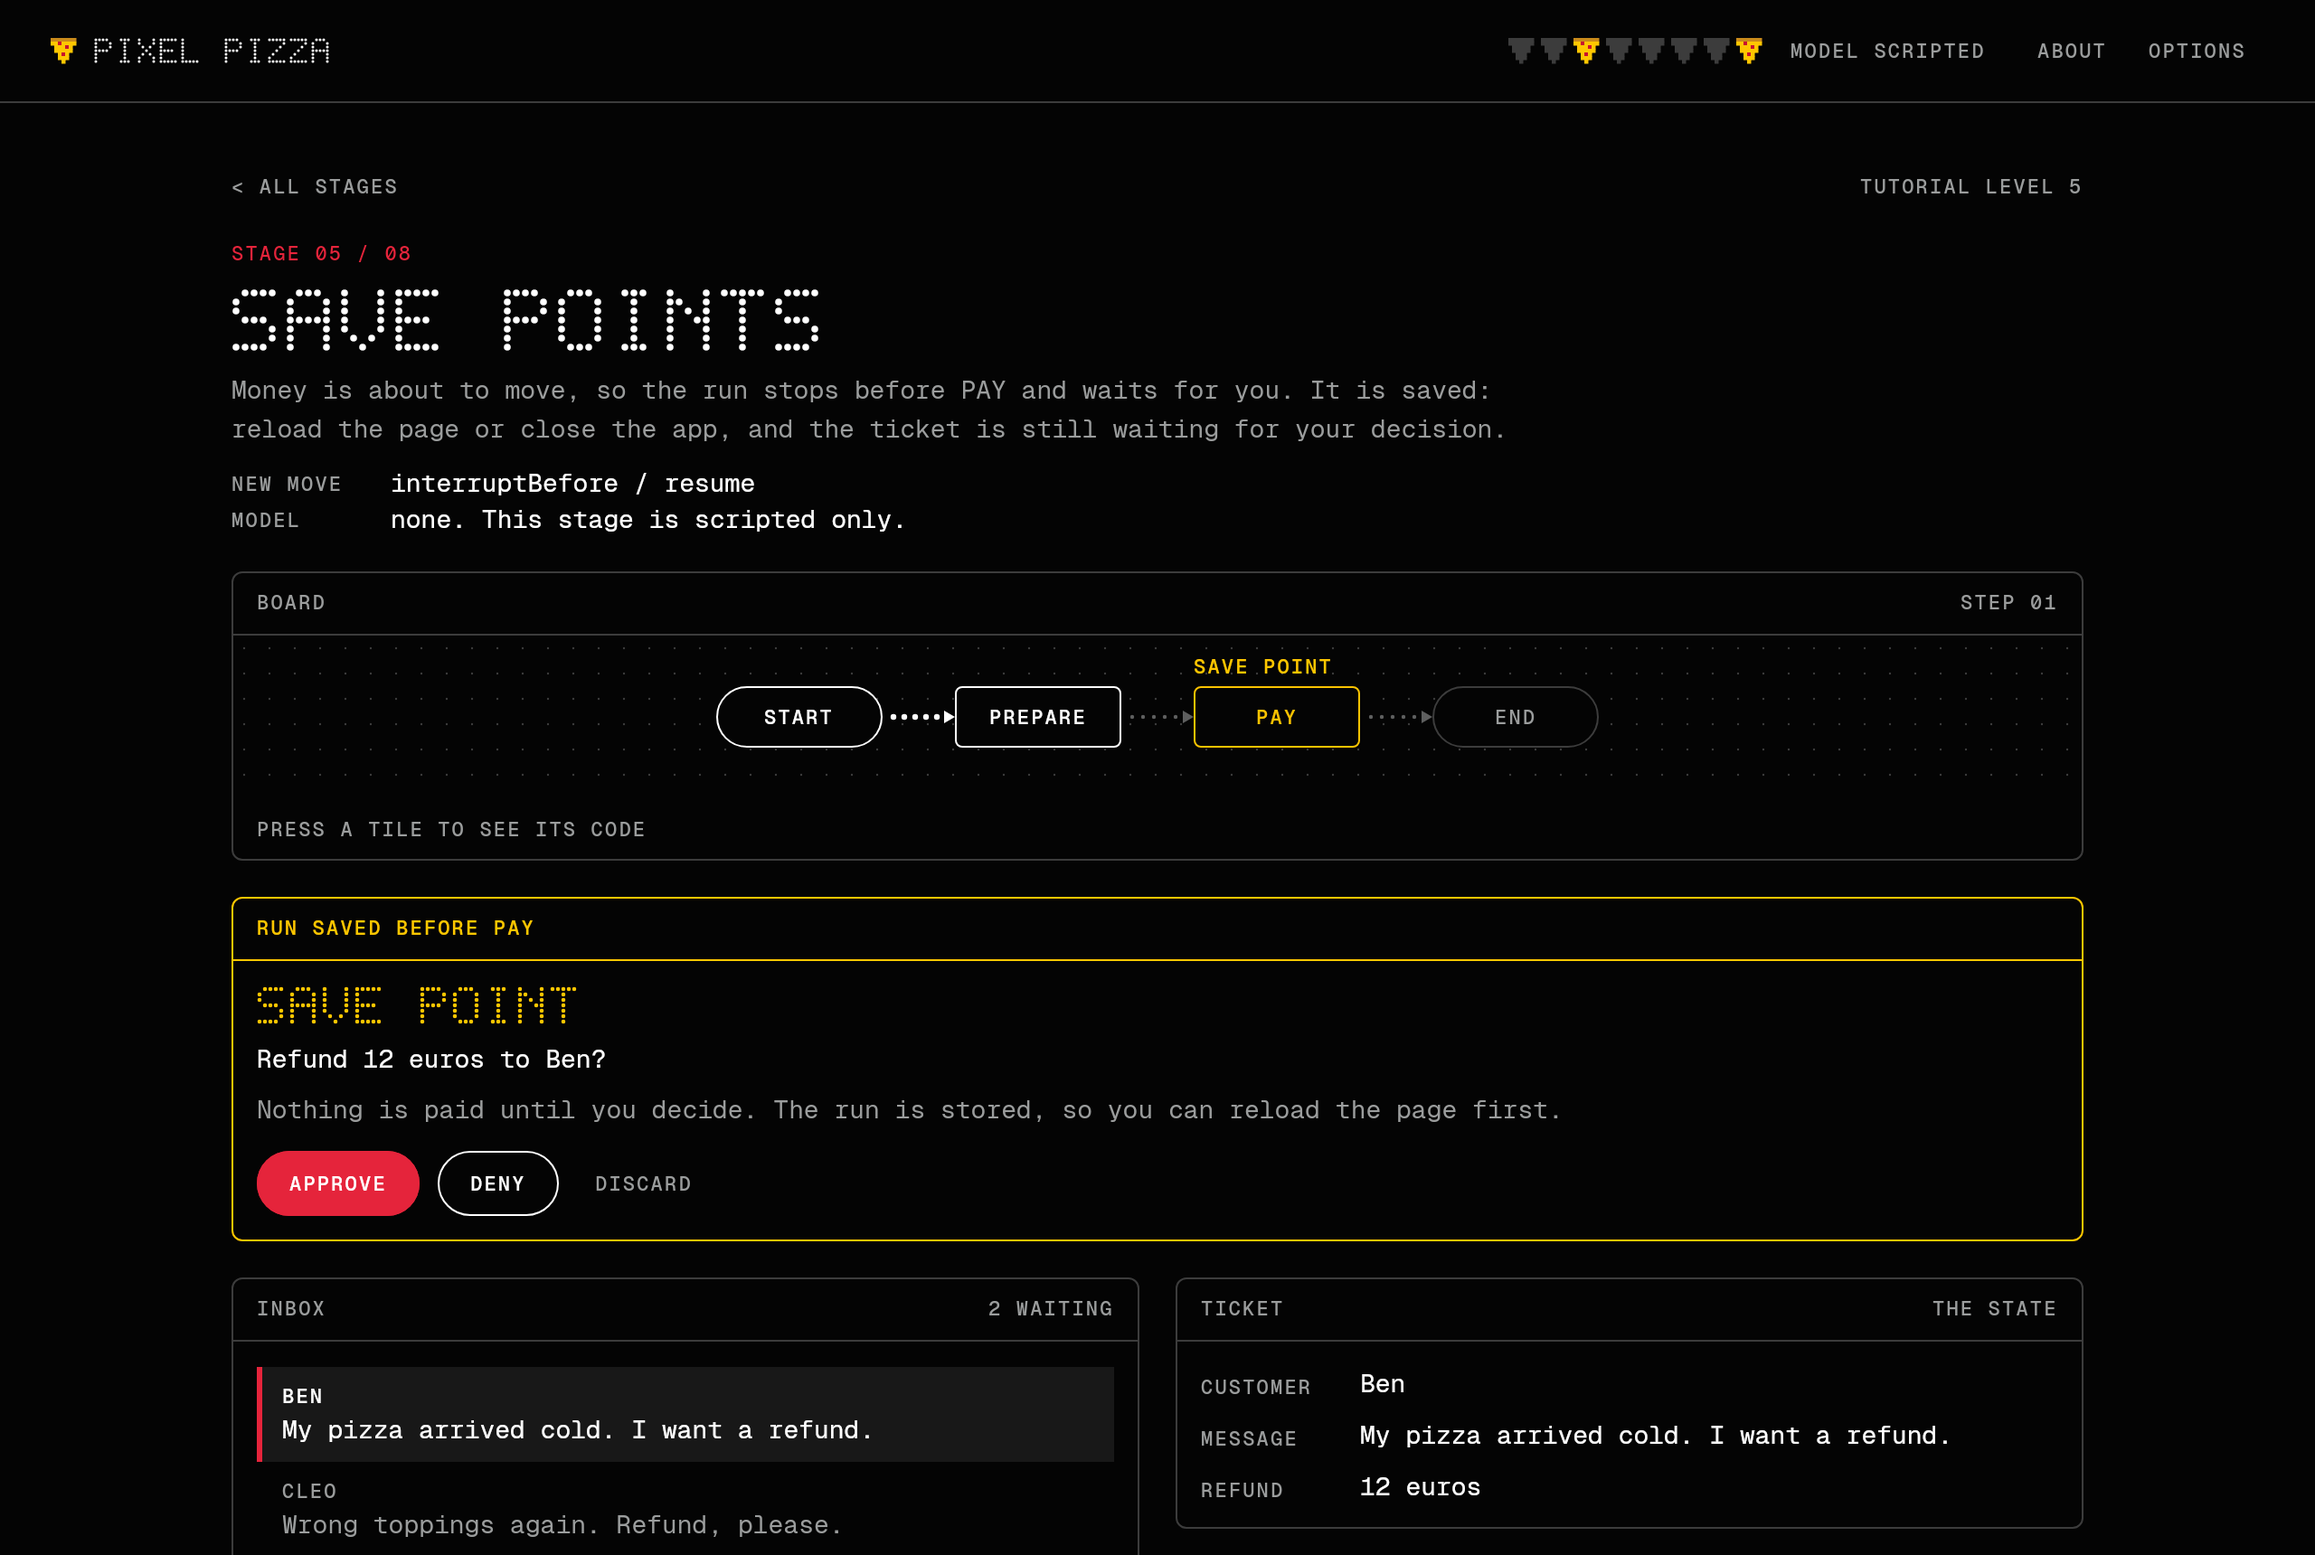
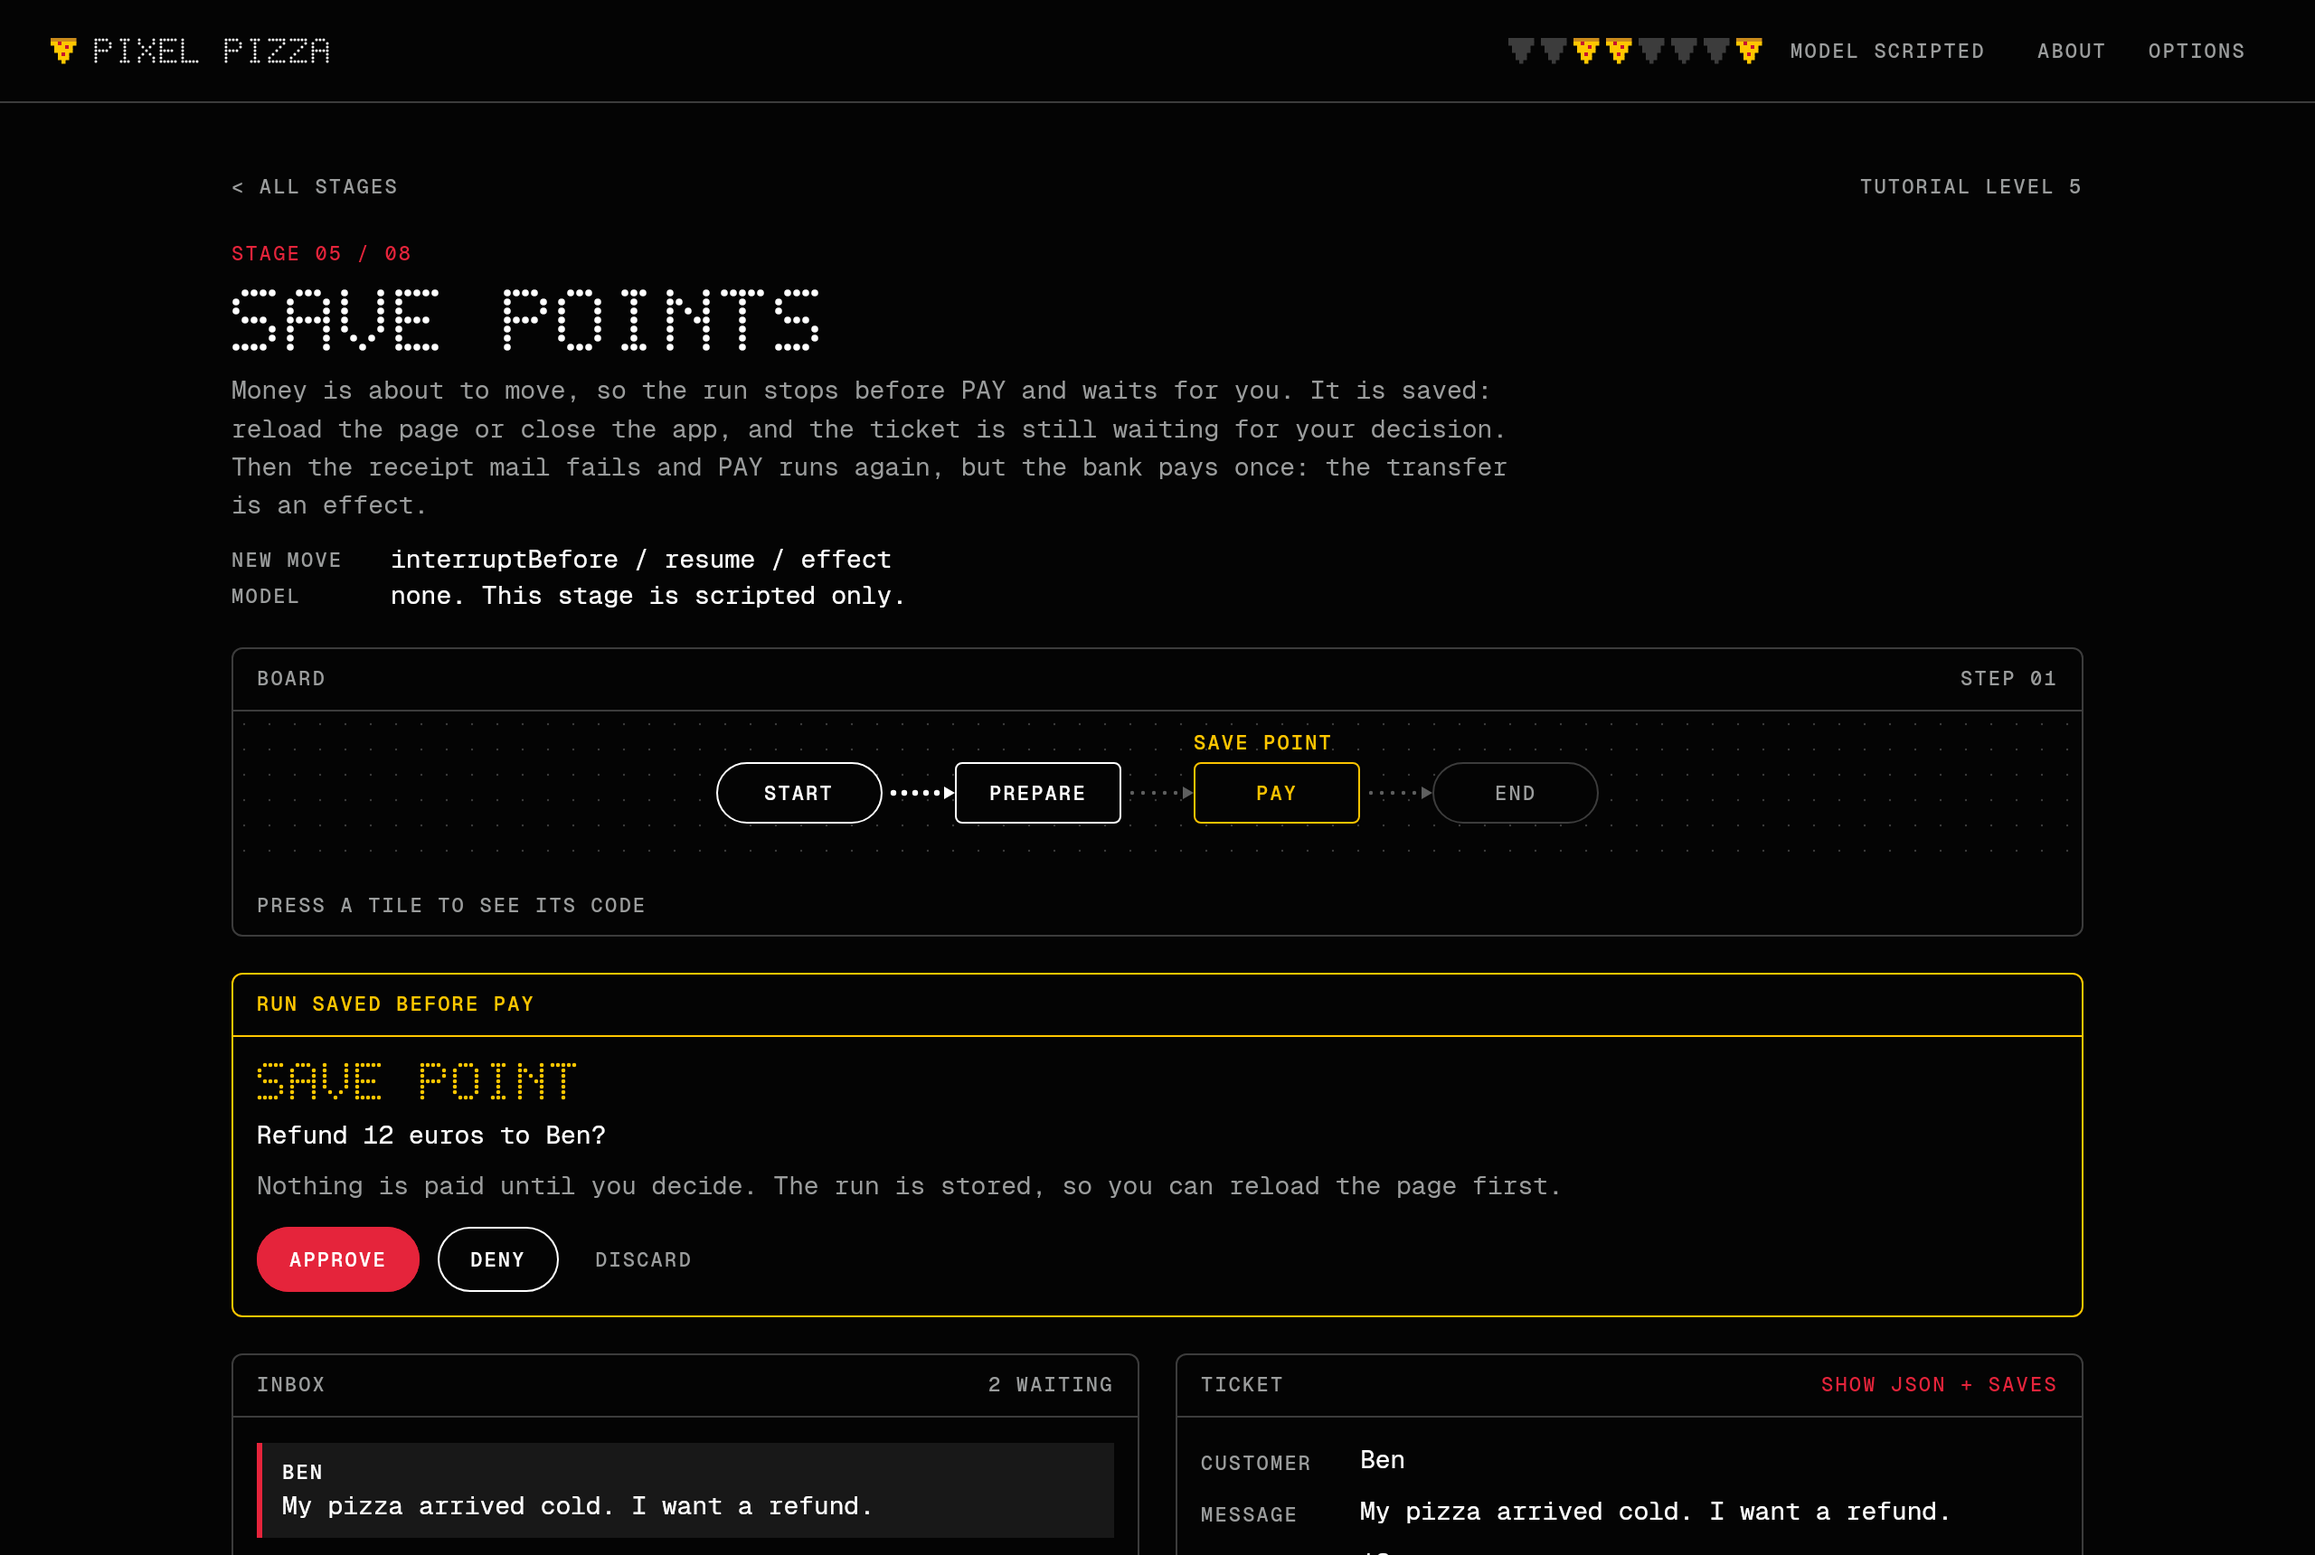
Feature: Stage 5 pays a refund once although PAY runs twice
After the approval PAY sends the refund through a bank, as an effect,
and then mails a receipt. The mail server is busy on the first try, so
PAY runs again; the second try gets the saved transfer back and the
bank is not called again.

The ticket keeps the bank's transfer number, and the run log has an
OUT line for each text a node reports, so the bank's line shows once.
The README's picture of the save point is drawn again.

Claude-Session: https://claude.ai/code/session_01DwSNs7ZFjSdzSQghzb7Gak

diff --git a/composeApp/src/commonMain/kotlin/dev/deeptelar/telar/demo/game/HelpDesks.kt b/composeApp/src/commonMain/kotlin/dev/deeptelar/telar/demo/game/HelpDesks.kt
@@ -10,6 +10,8 @@ import dev.deeptelar.telar.agent.ChatMessage
 import dev.deeptelar.telar.agent.chatWithProgress
 import dev.deeptelar.telar.agent.toolLoop
 import dev.deeptelar.telar.demo.llm.Responder
+import dev.deeptelar.telar.reportProgress
+import dev.deeptelar.telar.serialization.effect
 
 /**
  * The graphs of the stages, one function each. They are the help desks of the Telar
@@ -173,15 +175,42 @@ object HelpDesks {
         ticket.copy(reply = "Sorry ${ticket.customer}, we cannot refund this order.")
     }
 
-    /** Stage 5: run it with `interruptBefore = setOf(PAY)`, so a human decides before money moves. */
-    fun savePoints(desk: Desk): CompiledGraph<Ticket> = StateGraph<Ticket> {
+    /** The bank of stage 5. It numbers its transfers, so a refund that was sent twice would show. */
+    class Bank {
+        var transfers: Int = 0
+            private set
+
+        suspend fun send(customer: String, euros: Int): String {
+            val transfer = "T-${++transfers}"
+            reportProgress("bank: $euros euros sent to $customer, transfer $transfer")
+            return transfer
+        }
+    }
+
+    /** The mail server of stage 5. It is busy on every other call, so PAY fails once after the money moved. */
+    class BusyMail {
+        private var calls = 0
+
+        fun send(customer: String, text: String) {
+            if (++calls % 2 == 1) error("the mail server is busy")
+        }
+    }
+
+    /**
+     * Stage 5: run it with `interruptBefore = setOf(PAY)`, so a human decides before money moves. PAY
+     * moves it once, however often PAY runs.
+     */
+    fun savePoints(desk: Desk, bank: Bank = Bank(), mail: BusyMail = BusyMail()): CompiledGraph<Ticket> = StateGraph<Ticket> {
         val prepare = node("prepare") { ticket ->
             desk.work()
             ticket.copy(refund = 12)
         }
-        val pay = node(PAY) { ticket ->
+        // A failed try runs PAY again. `effect` saves what its block returned, so the second try gets the
+        // transfer back instead of sending the money again.
+        val pay = node(PAY, retry = Retry(attempts = 2)) { ticket ->
             desk.work()
-            payOut(ticket)
+            val paid = if (ticket.approved) ticket.copy(transfer = effect("transfer") { bank.send(ticket.customer, ticket.refund) }) else ticket
+            payOut(paid).also { mail.send(it.customer, it.reply) }
         }
 
         START then prepare then pay then END

diff --git a/composeApp/src/commonTest/kotlin/dev/deeptelar/telar/demo/StagesTest.kt b/composeApp/src/commonTest/kotlin/dev/deeptelar/telar/demo/StagesTest.kt
@@ -137,6 +137,20 @@ class StagesTest {
     }
 
     @Test
+    fun theBankPaysARefundOnceAlthoughPayRunsTwice() = runTest {
+        val bank = HelpDesks.Bank()
+        val graph = HelpDesks.savePoints(desk, bank)
+        val config = pausingBeforePay()
+
+        graph.invoke(Ticket("Ben", "My pizza arrived cold. I want a refund."), config)
+        val paid = graph.resume(config) { it.copy(approved = true) }.state
+
+        // The receipt mail failed after the transfer, so `pay` ran again and got the saved transfer back.
+        assertEquals("T-1", paid.transfer)
+        assertEquals(1, bank.transfers)
+    }
+
+    @Test
     fun theAgentAsksAToolAndAnswersWithItsResult() = runTest {
         val ticket = Agent.graph(desk).invoke(ana).state
 
@@ -230,6 +244,7 @@ class StagesTest {
             chat = listOf(ChatMessage.User("Hi")),
             refund = 12,
             approved = true,
+            transfer = "T-1",
             reply = "Hi Ana!",
             attempts = 1,
             problem = "say sorry",
@@ -241,6 +256,7 @@ class StagesTest {
                 "facts += \"your pizza left the oven\"",
                 "chat += 1 message",
                 "refund = 12",
+                "transfer = \"T-1\"",
                 "attempts = 1",
                 "problem = \"say sorry\"",
                 "reply = \"Hi Ana!\"",

diff --git a/composeApp/src/commonTest/kotlin/dev/deeptelar/telar/demo/GameTest.kt b/composeApp/src/commonTest/kotlin/dev/deeptelar/telar/demo/GameTest.kt
@@ -162,6 +162,7 @@ class GameTest {
         assertEquals("Sorry Ben! We sent you 12 euros.", stage.ticket?.reply)
         assertEquals(setOf(5), game.cleared)
         // The decision is the player's line in the log, and the step of `pay` only reports what `pay` wrote.
+        // The bank sent the money once, although `pay` ran twice.
         assertEquals(
             listOf(
                 "01" to "prepare",
@@ -169,7 +170,11 @@ class GameTest {
                 "SAV" to "stopped before pay",
                 "YOU" to "approved",
                 "" to "approved = true",
+                "OUT" to "bank: 12 euros sent to Ben, transfer T-1",
+                "TRY" to "pay: the mail server is busy",
+                "" to "try 2 in 1s",
                 "02" to "pay",
+                "" to "transfer = \"T-1\"",
                 "" to "reply = \"Sorry Ben! We sent you 12 euros.\"",
                 "END" to "reply sent",
             ),

diff --git a/composeApp/src/commonMain/kotlin/dev/deeptelar/telar/demo/game/Ticket.kt b/composeApp/src/commonMain/kotlin/dev/deeptelar/telar/demo/game/Ticket.kt
@@ -21,6 +21,8 @@ data class Ticket(
     val facts: List<String> = emptyList(),
     val refund: Int = 0,
     val approved: Boolean = false,
+    /** The bank's number of the transfer that paid the refund, in stage 5. */
+    val transfer: String = "",
     val reply: String = "",
     val attempts: Int = 0,
     val problem: String = "",
@@ -40,6 +42,7 @@ fun Ticket.changesSince(before: Ticket): List<String> = buildList {
     val messages = chat.size - before.chat.size
     if (messages > 0) add("chat += $messages ${if (messages == 1) "message" else "messages"}")
     if (refund != before.refund) add("refund = $refund")
+    if (transfer != before.transfer) add("transfer = \"$transfer\"")
     if (attempts != before.attempts) add("attempts = $attempts")
     if (problem != before.problem) add("problem = \"$problem\"")
     if (reply != before.reply) add("reply = \"$reply\"")

diff --git a/composeApp/src/commonMain/kotlin/dev/deeptelar/telar/demo/ui/Game.kt b/composeApp/src/commonMain/kotlin/dev/deeptelar/telar/demo/ui/Game.kt
@@ -277,7 +277,11 @@ class StageController(
             }
             // A model node reports each piece of text while the model writes it. No stage has a graph
             // inside a graph, but the text of a model in one would be read the same way.
-            is GraphEvent.NodeProgress, is GraphEvent.SubgraphEvent -> event.textDelta?.let { writing += it }
+            is GraphEvent.NodeProgress, is GraphEvent.SubgraphEvent -> {
+                event.textDelta?.let { writing += it }
+                // A node reports what it did outside the run, such as a payment, as a line of text.
+                ((event as? GraphEvent.NodeProgress)?.value as? String)?.let { log = log + LogLine("OUT", it) }
+            }
             is GraphEvent.NodeRetry -> {
                 // The next try writes its text from the start.
                 writing = ""

diff --git a/composeApp/src/commonMain/kotlin/dev/deeptelar/telar/demo/game/Stages.kt b/composeApp/src/commonMain/kotlin/dev/deeptelar/telar/demo/game/Stages.kt
@@ -110,9 +110,10 @@ val stages: List<Stage> = listOf(
     Stage(
         number = 5,
         title = "Save points",
-        moves = "interruptBefore / resume",
+        moves = "interruptBefore / resume / effect",
         briefing = "Money is about to move, so the run stops before PAY and waits for you. It is saved: " +
-            "reload the page or close the app, and the ticket is still waiting for your decision.",
+            "reload the page or close the app, and the ticket is still waiting for your decision. Then the " +
+            "receipt mail fails and PAY runs again, but the bank pays once: the transfer is an effect.",
         inbox = listOf(refund, Mail("Cleo", "Wrong toppings again. Refund, please.")),
         board = row("prepare", HelpDesks.PAY),
         pauseBefore = setOf(HelpDesks.PAY),

diff --git a/composeApp/src/jvmTest/kotlin/dev/deeptelar/telar/demo/ScreenshotTest.kt b/composeApp/src/jvmTest/kotlin/dev/deeptelar/telar/demo/ScreenshotTest.kt
@@ -104,6 +104,12 @@ class ScreenshotTest {
         shoot("stage-5-live-phone", Screen.Play(5), width = 390, height = 3400)
         game.inspect(false)
 
+        // Stage 5, approved: the receipt mail failed after the transfer, and the second try of PAY did not pay again.
+        game.controller(5).decide(approved = true)
+        scope.advanceUntilIdle()
+        shoot("stage-5-paid", Screen.Play(5), height = 1400)
+        shoot("stage-5-paid-phone", Screen.Play(5), width = 390, height = 1900)
+
         // Stage 6, after the tools ran: the model is halfway through writing its answer.
         game.controller(6).play(Mail("Ben", "How much is a margherita and a cola?"))
         scope.advanceTimeBy(2_800)

diff --git a/composeApp/src/commonMain/kotlin/dev/deeptelar/telar/demo/ui/StageScreen.kt b/composeApp/src/commonMain/kotlin/dev/deeptelar/telar/demo/ui/StageScreen.kt
@@ -352,6 +352,7 @@ private fun TicketSpecs(ticket: Ticket, paid: Boolean) {
     if (ticket.chat.isNotEmpty()) Spec("chat", "${ticket.chat.size} messages")
     if (ticket.refund > 0) Spec("refund", "${ticket.refund} euros")
     if (paid) Spec("approved", if (ticket.approved) "yes" else "no")
+    if (ticket.transfer.isNotEmpty()) Spec("transfer", ticket.transfer)
     if (ticket.attempts > 0) Spec("attempts", ticket.attempts.toString())
     if (ticket.problem.isNotEmpty()) Spec("problem", ticket.problem, valueColor = Theme.colors.red)
     if (ticket.reply.isNotEmpty()) Spec("reply", ticket.reply)

diff --git a/README.md b/README.md
@@ -21,7 +21,7 @@ nodes to a full agent workflow. One Compose Multiplatform codebase runs it in th
 | 2 | Choices | `conditionalEdge` picks one of three paths |
 | 3 | Loops | An edge that goes back until the reply passes a check |
 | 4 | Two at once | Fan-out to nodes with a `work` and an `update`, which run at the same time, and a node that runs once for each dish of the order |
-| 5 | Save points | `interruptBefore` stops the run for you; `resume` continues it, also after a reload |
+| 5 | Save points | `interruptBefore` stops the run for you; `resume` continues it, also after a reload; `effect` pays the refund once when `pay` runs twice |
 | 6 | The agent | A model that calls tools, as a loop of two nodes |
 | 7 | Game over | A node with a `retry` tries again by itself, then fails; `resume` retries from the last save |
 | 8 | The full desk | All of it on one board: four kinds of ticket, four ways through |
